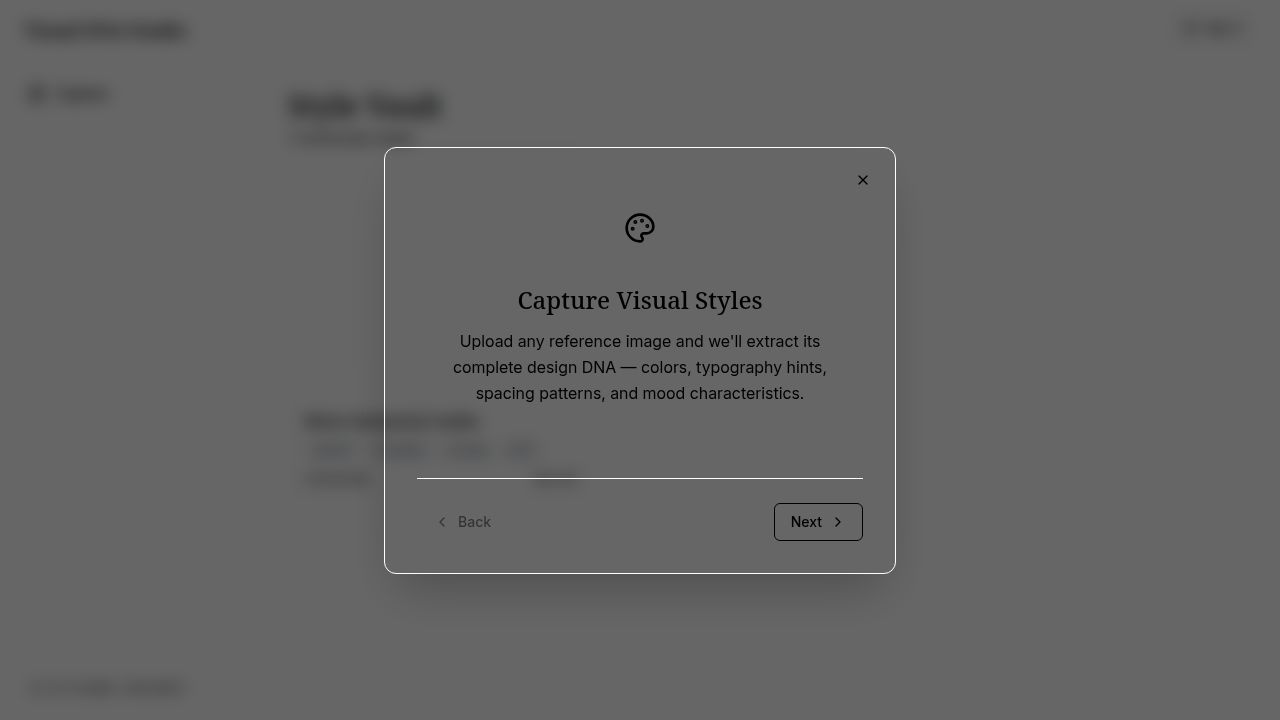
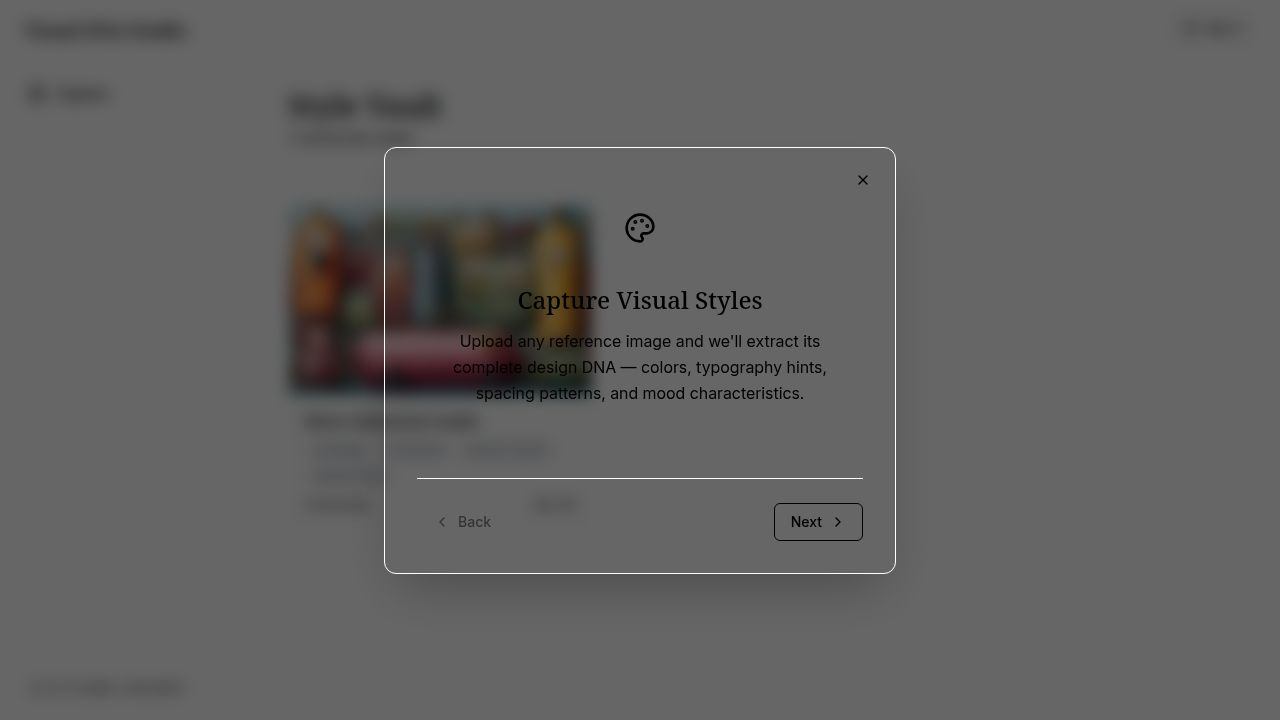
Enable mood board and UI concepts features for style inspection
Update feature flags in `shared/featureFlags.ts` to enable `moodboard.enabled` and `uiconcepts.enabled`, progressing to Stage 5 of the rollout.

Replit-Commit-Author: Agent
Replit-Commit-Session-Id: fa657e97-1ed4-4895-900b-776ff19d22ff
Replit-Commit-Checkpoint-Type: intermediate_checkpoint
Replit-Commit-Event-Id: c0e8acc3-0af5-418c-b38f-2778e1c8b7f7
Replit-Commit-Screenshot-Url: https://storage.googleapis.com/screenshot-production-us-central1/e43eaa2a-55da-4e99-b18b-f69fb4f8d631/fa657e97-1ed4-4895-900b-776ff19d22ff/VXJeHK7
Replit-Helium-Checkpoint-Created: true

Changed region(s): [[0.2188, 0.275, 0.4688, 0.5806]]

diff --git a/shared/featureFlags.ts b/shared/featureFlags.ts
@@ -142,15 +142,15 @@ export const defaultFeatureFlags: FeatureFlags = {
   'delete.enabled': false,
   'refresh.enabled': false,
   
-  // Inspect page features - Stage 4 (previews + Design DNA)
+  // Inspect page features - Stage 5 (+ Mood Board + UI Concepts)
   'inspect.summary': true,
   'inspect.previews': true,
   'inspect.tokens': true,
   'inspect.palette': true,
   'styleguide.enabled': false,
   'usagenotes.enabled': false,
-  'moodboard.enabled': false,
-  'uiconcepts.enabled': false,
+  'moodboard.enabled': true,
+  'uiconcepts.enabled': true,
   'materials.enabled': false,
   
   // Actions - ALL DISABLED for Stage 3 minimal
